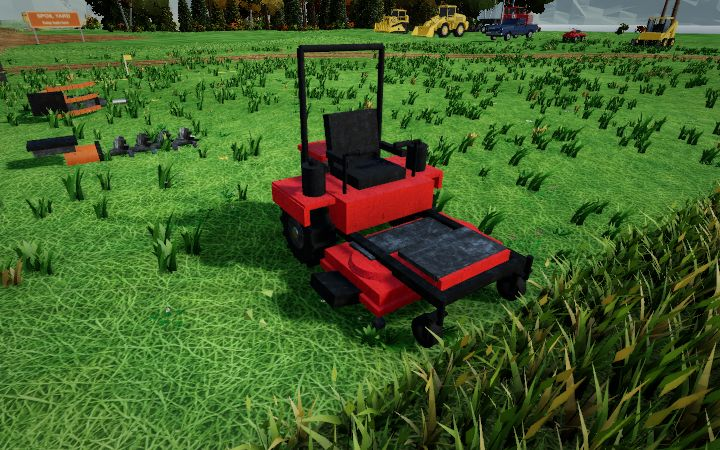
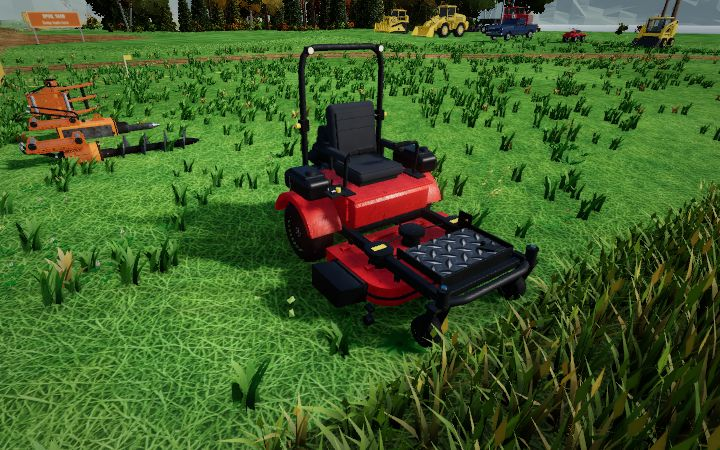
Start card shows the new detailed mower, skid steer, bike, runabout and mini; Machine models hint lists what Detailed covers
Claude-Session: https://claude.ai/code/session_01NjsPe3BuvejgtnfS9a8veR

diff --git a/js/gfx.js b/js/gfx.js
@@ -135,7 +135,7 @@ const GFX_ROWS=[
   {id:'aniso',label:'Sharpness at an angle',hint:'Keeps far-off ground crisp (anisotropic filtering).',opts:[[1,'1x'],[2,'2x'],[4,'4x'],[8,'8x'],[16,'16x']]},
   ['Grass and scenery'],
   {id:'brush',label:'Undergrowth',hint:'Leafy shrubs round the trees.',opts:[[0,'Off'],[0.35,'Few'],[0.7,'Some'],[1,'Full']]},
-  {id:'model',label:'Machine models',hint:'Detailed machines (the excavator with a full cab inside, the dump truck, dozers, loaders, semis, pickups and four-wheelers) or the simple ones. Detailed downloads about 7 MB once.',opts:[[true,'Detailed'],[false,'Simple']]},
+  {id:'model',label:'Machine models',hint:'Detailed models (every machine and boat, the excavator with a full cab inside, the trench box and attachments, and the yards\' and towns\' cones, light towers, barriers, lamps, benches and tables) or the simple ones. Detailed downloads about 17 MB once.',opts:[[true,'Detailed'],[false,'Simple']]},
   {id:'treeR',label:'Tree detail distance',hint:'How far trees keep their full model of branches and leaves.',min:20,max:400,step:5,fmt:v=>`${Math.round(v*FT_M)} ft`},
   {id:'tuftQ',label:'Grass quality',hint:'How finely the grass and weeds are shaped: more blades, bent in more steps, finer leaves, petals and seed heads. Costs triangles.',opts:[[0,'Simple'],[1,'Good'],[2,'Fine'],[3,'Best']]},
   {id:'tuftA',label:'Grass blades',hint:'How many blades are drawn. The main triangle cost.',min:0,max:1,step:0.05,fmt:v=>`${Math.round(v*100)}%`},
